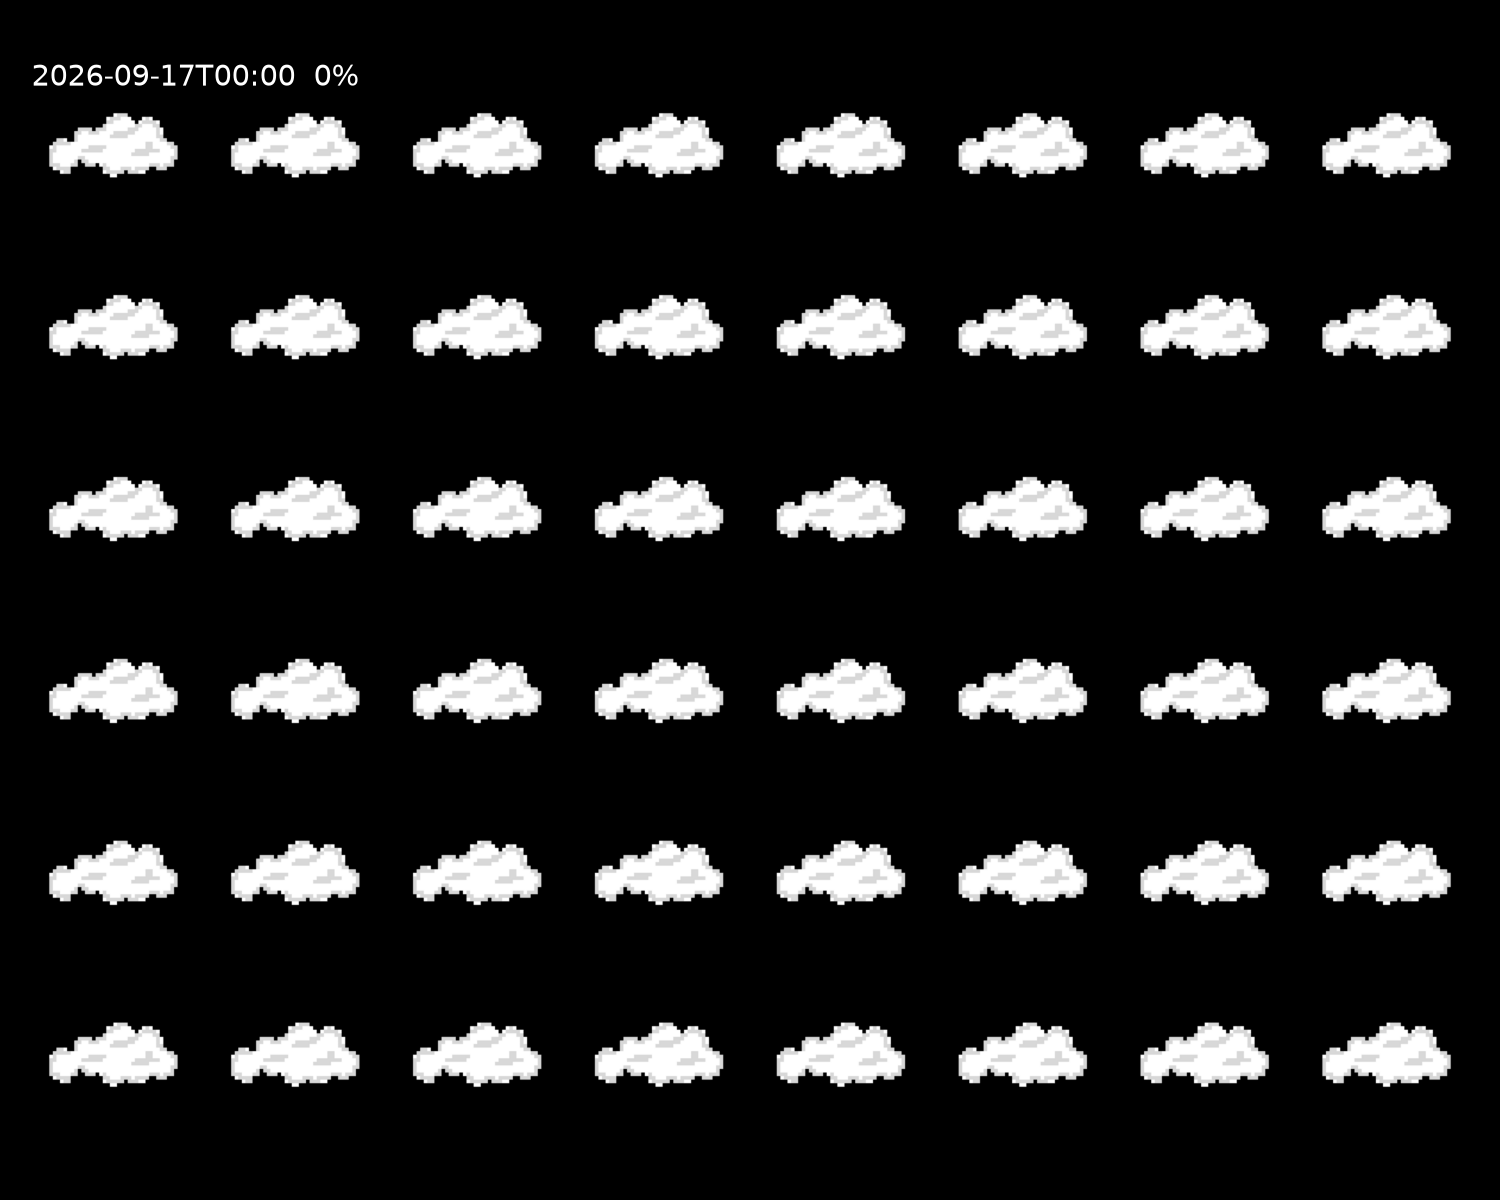
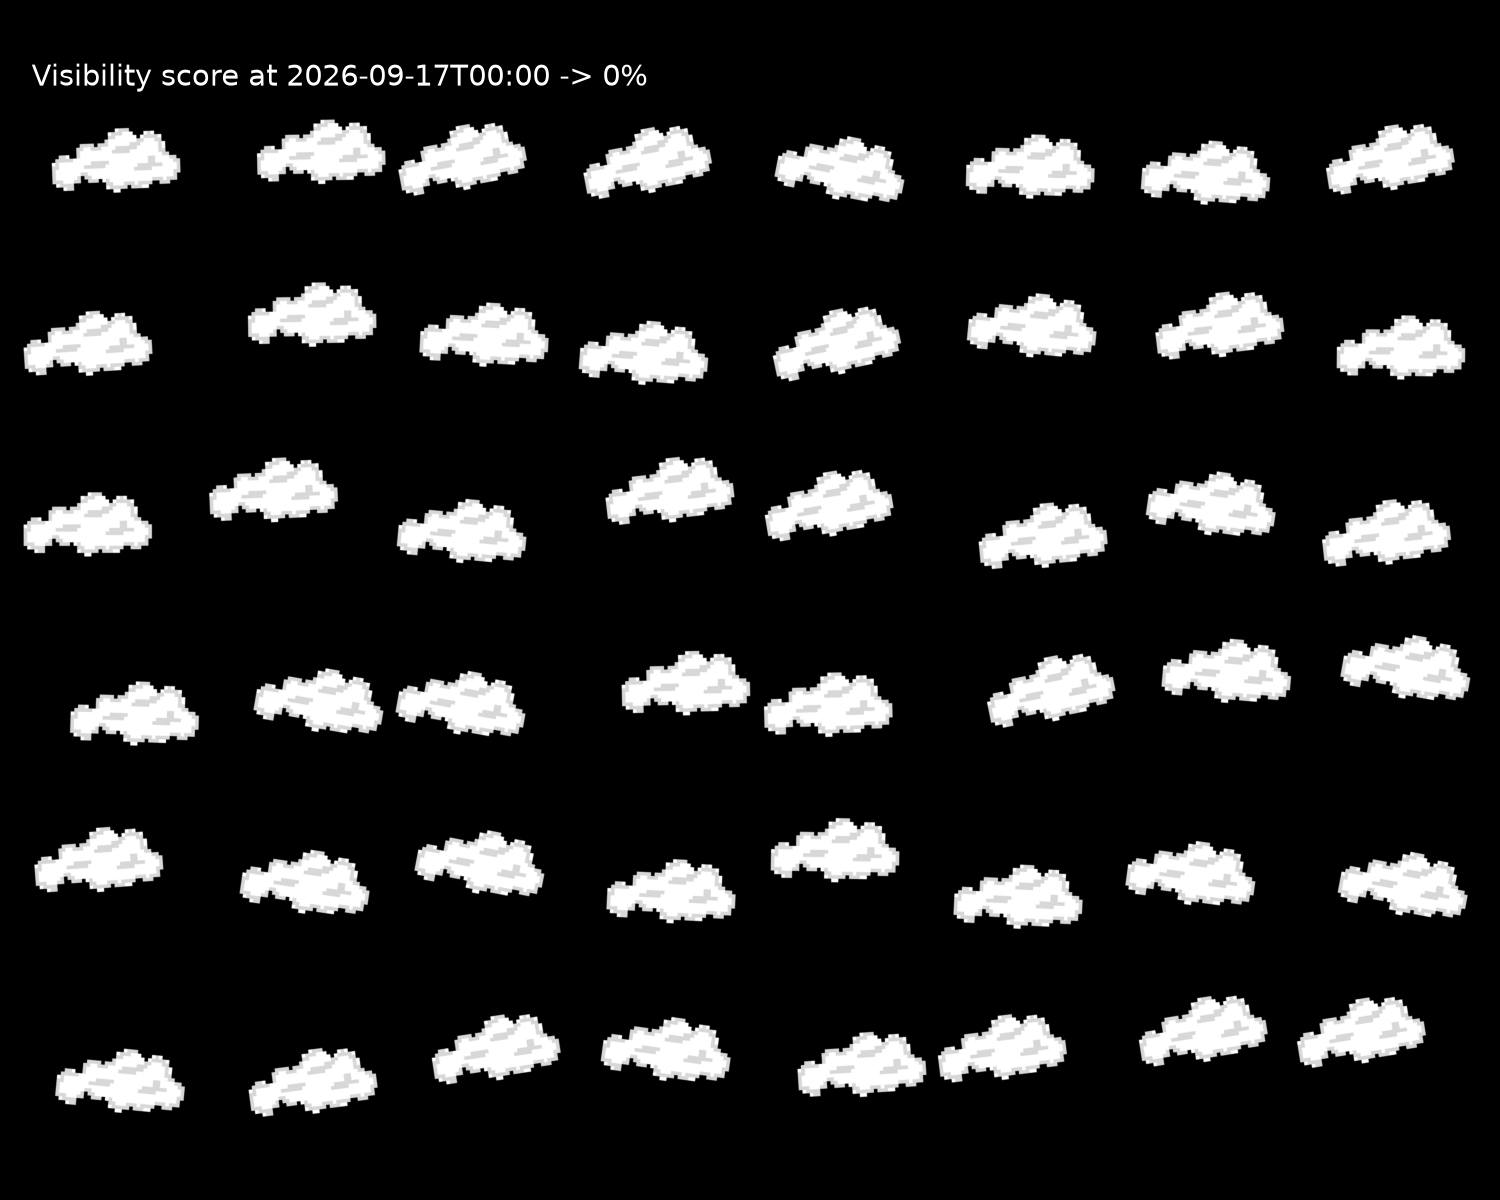
Small position and rotation variation

diff --git a/plot.py b/plot.py
@@ -14,10 +14,12 @@ the bottom is the transformation you chose. Print before you plot.
 """
 
 import csv
+import random
 from pathlib import Path
 
 import matplotlib.pyplot as plt
 from matplotlib.image import imread
+from matplotlib.transforms import Affine2D
 from fetch import FILE
 
 PICTURE = "plot.png"                           # what goes into out/, and into the README
@@ -44,11 +46,20 @@ def main():
     fig, ax = plt.subplots(figsize=(10, 8), facecolor="black")
     ax.set_facecolor("black")
     cloud = imread(SPRITE)
+    variation = random.Random(42)
     for x in range(8):
         for y in range(6):
-            ax.imshow(cloud, extent=(x, x + 1, y, y + 1),
-                      alpha=cloud_opacity)
-    ax.text(0.05, 5.95, f"{first['time']}  {score:.0f}%",
+            jitter_x = variation.uniform(-0.15, 0.15)
+            jitter_y = variation.uniform(-0.15, 0.15)
+            left, bottom = x + jitter_x, y + jitter_y
+            center_x, center_y = left + 0.5, bottom + 0.5
+            rotation = variation.uniform(-12, 12)
+            transform = (Affine2D()
+                         .rotate_deg_around(center_x, center_y, rotation)
+                         + ax.transData)
+            ax.imshow(cloud, extent=(left, left + 1, bottom, bottom + 1),
+                      transform=transform, alpha=cloud_opacity)
+    ax.text(0.05, 5.95, f"Visibility score at {first['time']} -> {score:.0f}%",
             ha="left", va="top", fontsize=14, color="white")
     ax.set_xlim(0, 8)
     ax.set_ylim(0, 6)
